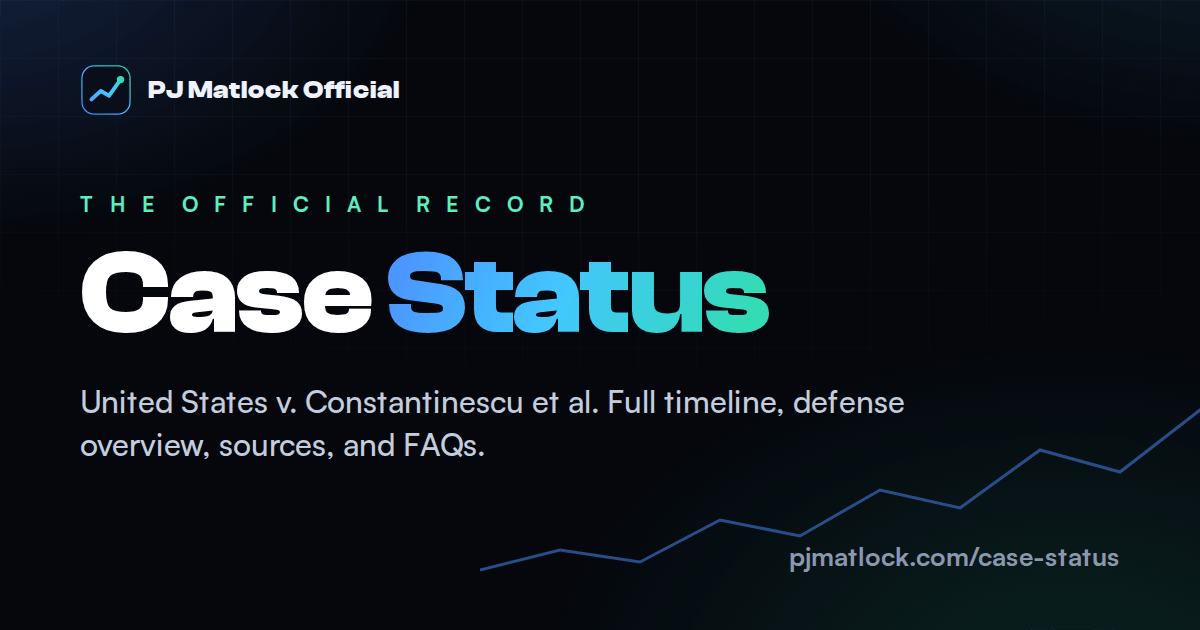
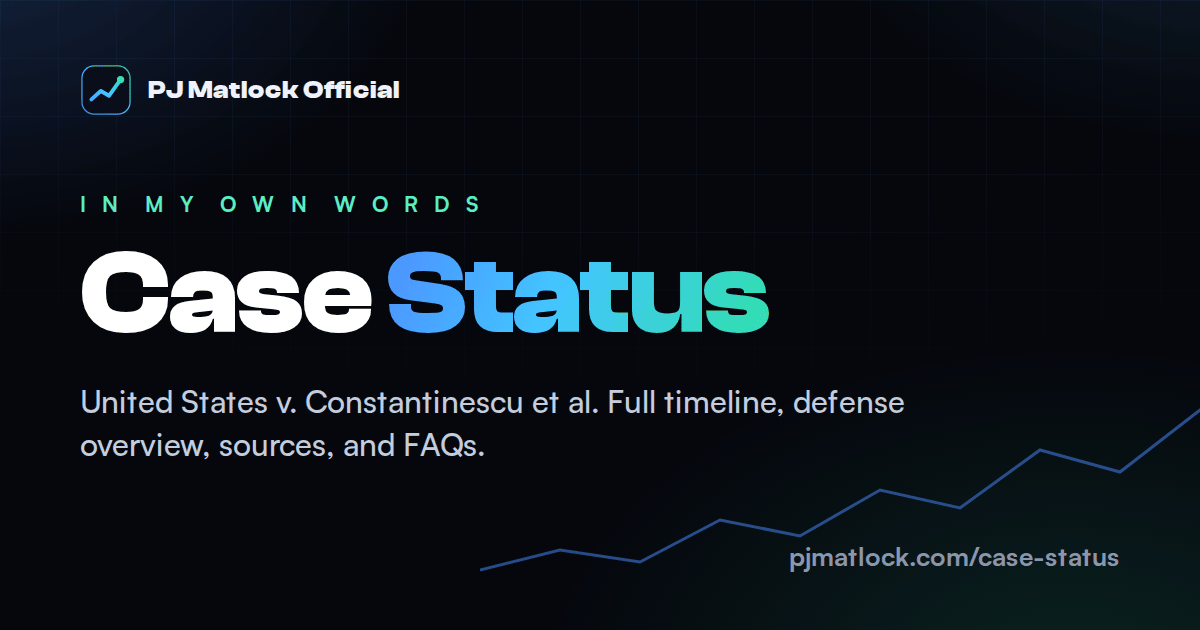
Apply adversarial-review fixes: print legibility, exact quotes, defused framing
From a 3-reviewer verification pass (regressions, fact-check, hostile-reader):
- Print: Key Facts, Updates, em text, and the 30%/GO offer text were
  near-invisible on the white print theme; source URLs now wrap below
  their cards.
- Variety quote extended to "...Against Social Influencers..." so the
  quoted prefix exactly matches the article's visible headline.
- My Story: removed the unsupported "more than a decade ago" duration
  and the "full record" completeness overclaim (now "full story").
- Neutralized the stat-strip HTML comment (view-source is a journalist
  move; "defense-win zeros" was a quotable artifact).
- Coverage section retitled "Coverage of the 2024 Dismissal" to match
  its dismissal-only content; Law360 domain chip now discloses the
  fordobrien.com-hosted PDF on both pages.
- Updates section retitled "Scheduling Updates" to scope its contents.
- og-halcyon.png regenerated with an affiliate/risk small-print line and
  the risk sentence added to the halcyon share descriptions, so shared
  screenshots are self-disclaiming.
- og-case-status.png eyebrow changed THE OFFICIAL RECORD -> IN MY OWN
  WORDS, restoring the site's own qualifier.
- Dates refreshed to July 6, 2026 (page-updated line, updates log,
  article:modified_time, JSON-LD, sitemap); cache token ?v=20260706.

Verification: JSON-LD all valid, FAQ visible/JSON-LD parity exact on
both pages, no stale strings, print PDFs re-rendered and checked.

Changed region(s): [[0.0617, 0.3016, 0.4933, 0.3619]]

diff --git a/case-status/index.html b/case-status/index.html
@@ -28,7 +28,7 @@
   <meta property="og:image:height" content="630" />
   <meta property="og:image:alt" content="PJ Matlock - Case Status" />
   <meta property="article:published_time" content="2026-03-03" />
-  <meta property="article:modified_time" content="2026-07-01" />
+  <meta property="article:modified_time" content="2026-07-06" />
   <meta property="article:author" content="https://pjmatlock.com/" />
   <meta name="twitter:card" content="summary_large_image" />
   <meta name="twitter:site" content="@pj_matlock" />
@@ -77,7 +77,7 @@
     "headline":"Case Status Update (July 2026): Full Timeline, Defense Overview, FAQs",
     "image":"https://pjmatlock.com/assets/og-case-status.png",
     "datePublished":"2026-03-03",
-    "dateModified":"2026-07-01",
+    "dateModified":"2026-07-06",
     "author":{"@id":"https://pjmatlock.com/#person"},
     "publisher":{"@type":"Organization","name":"PJ Matlock Official","logo":{"@type":"ImageObject","url":"https://pjmatlock.com/assets/icon-512.png","width":512,"height":512}},
     "url":"https://pjmatlock.com/case-status/",
@@ -103,7 +103,7 @@
     "claimReviewed":"PJ Matlock's criminal case ended permanently on March 20, 2024.",
     "itemReviewed":{"@type":"Claim","datePublished":"2024-03-20","appearance":{"@type":"CreativeWork","name":"Third-party coverage stating the case ended in March 2024"}},
     "reviewBody":"The district court dismissed the indictment on March 20, 2024, but the Fifth Circuit reversed that dismissal on October 2, 2025 and remanded the case. As of July 2026, the criminal case is pending again in the Southern District of Texas, with a jury trial scheduled for May 3, 2027.",
-    "datePublished":"2026-07-01",
+    "datePublished":"2026-07-06",
     "author":{"@type":"Organization","name":"PJ Matlock Official"},
     "reviewRating":{"@type":"Rating","ratingValue":"1","bestRating":"5","worstRating":"1","alternateName":"False"}
   }
@@ -131,8 +131,8 @@
 
   <link rel="preload" href="/assets/fonts/ClashDisplay-700.woff2" as="font" type="font/woff2" crossorigin />
   <link rel="preload" href="/assets/fonts/Satoshi-400.woff2" as="font" type="font/woff2" crossorigin />
-  <link rel="stylesheet" href="/assets/site.css?v=20260701b" />
-  <script src="/assets/site.js?v=20260701b" defer></script>
+  <link rel="stylesheet" href="/assets/site.css?v=20260706" />
+  <script src="/assets/site.js?v=20260706" defer></script>
 </head>
 <body>
   <a class="skip-link" href="#main">Skip to content</a>
@@ -171,7 +171,7 @@
       <a href="/" class="back-link"><svg aria-hidden="true" focusable="false" viewBox="0 0 24 24" width="16" height="16" fill="none" stroke="currentColor" stroke-width="2.5" stroke-linecap="round" stroke-linejoin="round"><line x1="19" y1="12" x2="5" y2="12"/><polyline points="12 19 5 12 12 5"/></svg> Back to Home</a>
       <h1>Case Status</h1>
       <div class="case-id">United States v. Constantinescu et al., S.D. Tex. (4:22-cr-00612)</div>
-      <div class="case-id" style="margin-top:4px">Page updated July 1, 2026</div>
+      <div class="case-id" style="margin-top:4px">Page updated July 6, 2026</div>
     </header>
 
     <!-- Status Callout -->
@@ -185,7 +185,7 @@
       <div class="toc-label">On this page</div>
       <ol>
         <li><a href="#key-facts">Key Facts</a></li>
-        <li><a href="#updates">Updates</a></li>
+        <li><a href="#updates">Scheduling Updates</a></li>
         <li><a href="#timeline">Full Timeline</a></li>
         <li><a href="#fifth-circuit">What the Fifth Circuit Actually Decided</a></li>
         <li><a href="#problems">Why the Government's Theory Has Problems</a></li>
@@ -211,11 +211,11 @@
       </div>
     </section>
 
-    <!-- Updates -->
+    <!-- Scheduling Updates -->
     <section class="content-section reveal" id="updates">
-      <h2>Updates</h2>
+      <h2>Scheduling Updates</h2>
       <div class="update-row">
-        <div class="update-date">Jul 1, 2026</div>
+        <div class="update-date">Jul 6, 2026</div>
         <div class="update-text">Case Status page updated with the current schedule.</div>
       </div>
       <div class="update-row">
@@ -438,7 +438,7 @@
           <div>
             <h3>Law360: Case Tossed Before Trial</h3>
             <p class="meta">District court dismissal report</p>
-            <div class="domain">law360.com (PDF)</div>
+            <div class="domain">Law360 (PDF via fordobrien.com)</div>
           </div>
         </a>
         <a class="card source" href="https://www.dynamisllp.com/media/114m-discord-case-tossed" target="_blank" rel="noopener">

diff --git a/index.html b/index.html
@@ -68,8 +68,8 @@
 
   <link rel="preload" href="/assets/fonts/ClashDisplay-700.woff2" as="font" type="font/woff2" crossorigin />
   <link rel="preload" href="/assets/fonts/Satoshi-400.woff2" as="font" type="font/woff2" crossorigin />
-  <link rel="stylesheet" href="/assets/site.css?v=20260701b" />
-  <script src="/assets/site.js?v=20260701b" defer></script>
+  <link rel="stylesheet" href="/assets/site.css?v=20260706" />
+  <script src="/assets/site.js?v=20260706" defer></script>
 </head>
 <body>
   <a class="skip-link" href="#main">Skip to content</a>
@@ -142,9 +142,7 @@
         </div>
       </div>
 
-      <!-- Stat strip: case scoreboard, defense facts only.
-           Deliberate emphasis system: years stay white (context),
-           the two defense-win zeros carry the brand gradient. -->
+      <!-- Stat strip -->
       <div class="stats">
         <div class="stat reveal" data-delay="0"><div class="num">2024</div><div class="lbl">A federal judge dismissed the indictment before trial</div></div>
         <div class="stat reveal" data-delay=".08"><div class="num grad-text">0</div><div class="lbl">Trials held. No evidence has been tested.</div></div>
@@ -193,7 +191,7 @@
           <div class="tl-card">
             <div class="tl-date">Early Days</div>
             <div class="tl-title">A Trader First</div>
-            <div class="tl-desc">I started day trading U.S. stocks with my own account more than a decade ago. My own money, my own risk, my own decisions. That has never changed.</div>
+            <div class="tl-desc">I started day trading U.S. stocks with my own account. My own money, my own risk, my own decisions. That has never changed.</div>
           </div>
         </div>
 
@@ -220,7 +218,7 @@
           <div class="tl-card">
             <div class="tl-date">Today</div>
             <div class="tl-title">Still Here</div>
-            <div class="tl-desc">I trade, I build, and I am fighting the government's case against me in court. The full record, in my own words, is on the <a href="/case-status/">Case Status</a> page.</div>
+            <div class="tl-desc">I trade, I build, and I am fighting the government's case against me in court. The full story, in my own words, is on the <a href="/case-status/">Case Status</a> page.</div>
           </div>
         </div>
       </div>
@@ -277,15 +275,15 @@
     <!-- Coverage -->
     <section class="section tight" aria-label="Press coverage">
       <div class="reveal">
-        <div class="eyebrow">Coverage</div>
-        <h2>What the Press Reported</h2>
-        <p class="section-desc">Third-party reporting on the March 2024 dismissal. Full sources and court documents are on the <a href="/case-status/">Case Status</a> page.</p>
+        <div class="eyebrow">In the Press</div>
+        <h2>Coverage of the 2024 Dismissal</h2>
+        <p class="section-desc">Third-party reporting, quoted as published. Full sources and court documents are on the <a href="/case-status/">Case Status</a> page.</p>
       </div>
       <div class="sources three" style="margin-top:28px">
         <a class="card source reveal" data-delay="0" href="https://variety.com/2024/digital/news/securities-fraud-charges-dropped-social-influencers-1235948958/" target="_blank" rel="noopener">
           <div class="fav"><img src="/assets/favicons/variety.png" alt="" loading="lazy"></div>
           <div>
-            <h3>&ldquo;Securities Fraud Charges Dropped Against Influencers&hellip;&rdquo;</h3>
+            <h3>&ldquo;Securities Fraud Charges Dropped Against Social Influencers&hellip;&rdquo;</h3>
             <p class="meta">March 2024 dismissal coverage</p>
             <div class="domain">variety.com</div>
           </div>
@@ -295,7 +293,7 @@
           <div>
             <h3>&ldquo;$114M Discord Stock Case Tossed Ahead Of Jury Trial&rdquo;</h3>
             <p class="meta">March 2024 dismissal coverage</p>
-            <div class="domain">law360.com (PDF)</div>
+            <div class="domain">Law360 (PDF via fordobrien.com)</div>
           </div>
         </a>
         <a class="card source reveal" data-delay=".16" href="https://www.dynamisllp.com/media/114m-discord-case-tossed" target="_blank" rel="noopener">

diff --git a/halcyon/index.html b/halcyon/index.html
@@ -4,7 +4,7 @@
   <meta charset="utf-8" />
   <title>Halcyon Trader Funding Code GO - 30% Off | PJ Matlock</title>
   <meta name="viewport" content="width=device-width, initial-scale=1" />
-  <meta name="description" content="Halcyon Trader Funding code GO gets 30% off. Use code GO at checkout for U.S. futures funded-trading evaluations and funded accounts, or use the link to apply the 30% discount automatically." />
+  <meta name="description" content="Halcyon Trader Funding code GO gets 30% off. Use code GO at checkout for U.S. futures funded-trading evaluations and funded accounts, or use the link to apply the 30% discount automatically. Affiliate offer; futures trading involves substantial risk." />
   <link rel="canonical" href="https://pjmatlock.com/halcyon/" />
   <meta name="robots" content="index,follow,max-image-preview:large" />
   <meta name="theme-color" content="#05070d" />
@@ -18,7 +18,7 @@
   <link rel="manifest" href="/site.webmanifest" />
 
   <meta property="og:title" content="Halcyon Trader Funding Code GO - 30% Off | PJ Matlock" />
-  <meta property="og:description" content="Use code GO for 30% off at Halcyon Trader Funding, a U.S. futures prop firm." />
+  <meta property="og:description" content="Use code GO for 30% off at Halcyon Trader Funding, a U.S. futures prop firm. Affiliate offer; futures trading involves substantial risk. Not financial advice." />
   <meta property="og:url" content="https://pjmatlock.com/halcyon/" />
   <meta property="og:type" content="website" />
   <meta property="og:site_name" content="PJ Matlock Official" />
@@ -29,7 +29,7 @@
   <meta name="twitter:site" content="@pj_matlock" />
   <meta name="twitter:creator" content="@pj_matlock" />
   <meta name="twitter:title" content="Halcyon Trader Funding Code GO - 30% Off | PJ Matlock" />
-  <meta name="twitter:description" content="Use code GO for 30% off at Halcyon Trader Funding, a U.S. futures prop firm." />
+  <meta name="twitter:description" content="Use code GO for 30% off at Halcyon Trader Funding, a U.S. futures prop firm. Affiliate offer; futures trading involves substantial risk. Not financial advice." />
   <meta name="twitter:image" content="https://pjmatlock.com/assets/og-halcyon.png" />
   <meta name="twitter:image:alt" content="Halcyon Trader Funding code GO - 30% off" />
   <meta property="og:image:alt" content="Halcyon Trader Funding code GO - 30% off" />
@@ -63,8 +63,8 @@
 
   <link rel="preload" href="/assets/fonts/ClashDisplay-700.woff2" as="font" type="font/woff2" crossorigin />
   <link rel="preload" href="/assets/fonts/Satoshi-400.woff2" as="font" type="font/woff2" crossorigin />
-  <link rel="stylesheet" href="/assets/site.css?v=20260701b" />
-  <script src="/assets/site.js?v=20260701b" defer></script>
+  <link rel="stylesheet" href="/assets/site.css?v=20260706" />
+  <script src="/assets/site.js?v=20260706" defer></script>
 </head>
 <body>
   <a class="skip-link" href="#main">Skip to content</a>

diff --git a/assets/site.css b/assets/site.css
@@ -668,9 +668,11 @@ footer {
 @media print {
   :root { color-scheme: light; }
   body { background: #fff !important; color: #222 !important; font-size: 12px; }
-  h1, h2, h3, h4, strong, .stat .num, .tl-title, .faq-q, .quote p, .closing p, .status-callout p { color: #000 !important; }
-  p, li, .tl-desc, .lbl, .meta, .kp p, .problem p, .callout p, .callout li, .faq-a-inner > div, .section-desc, .foot-disclaimer { color: #222 !important; }
-  .tl-date, .eyebrow, .tag, .status-label, .case-id, .domain, .attrib { color: #444 !important; background: none !important; border-color: #bbb !important; }
+  h1, h2, h3, h4, strong, .stat .num, .tl-title, .faq-q, .quote p, .closing p, .status-callout p, .pct, .pct-sm, .code-badge { color: #000 !important; }
+  p, li, .tl-desc, .lbl, .meta, .kp p, .problem p, .callout p, .callout li, .faq-a-inner > div, .section-desc, .foot-disclaimer, .factbox dd, .update-text, em { color: #222 !important; }
+  .tl-date, .eyebrow, .tag, .status-label, .case-id, .domain, .attrib, .factbox dt, .update-date, .offer-label, .copy-hint, .disclosure { color: #444 !important; background: none !important; border-color: #bbb !important; }
+  .source { flex-wrap: wrap; }
+  .source::after { flex-basis: 100%; }
   .grad-text { background: none !important; -webkit-background-clip: initial !important; background-clip: initial !important; -webkit-text-fill-color: initial !important; color: #000 !important; }
   a { color: #003d99 !important; }
   .bg, .grain, .hero-chart, .promo-bar, .nav-toggle, .back-link, .social-row, .read-progress, .to-top, .faq-toggle-all, .faq-chevron, .toc, .skip-link { display: none !important; }

diff --git a/404.html b/404.html
@@ -17,8 +17,8 @@
 
   <link rel="preload" href="/assets/fonts/ClashDisplay-700.woff2" as="font" type="font/woff2" crossorigin />
   <link rel="preload" href="/assets/fonts/Satoshi-400.woff2" as="font" type="font/woff2" crossorigin />
-  <link rel="stylesheet" href="/assets/site.css?v=20260701b" />
-  <script src="/assets/site.js?v=20260701b" defer></script>
+  <link rel="stylesheet" href="/assets/site.css?v=20260706" />
+  <script src="/assets/site.js?v=20260706" defer></script>
 </head>
 <body>
   <a class="skip-link" href="#main">Skip to content</a>
